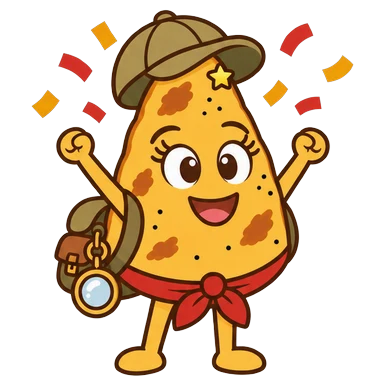
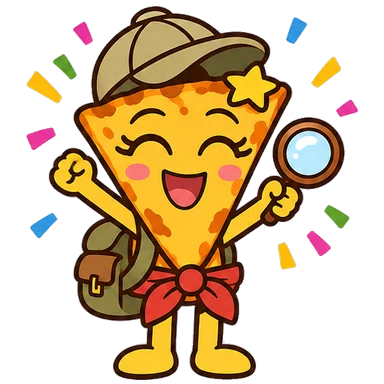
Mascotte au féminin : nouvelle socca à l'envers (petits, lecteurs, explorateurs, lycée gothique et rap, parent)
Claude-Session: https://claude.ai/code/session_01J1vkerBPNDTBzHrhCgH55g

diff --git a/CLAUDE.md b/CLAUDE.md
@@ -14,7 +14,7 @@ Ce dépôt (leian/UNIVERSALQUIZ, nom gardé pour ne pas changer l'adresse GitHub
 - Remise à zéro (Réglages, cases à cocher, propriétaire seulement, confirmation = prénom) : `apiRemettreAZero` — deux cases : résultats (Sheets renommé « (archive du …) » + nouveau tableau, avec la mémoire des appareils : propriété `RAZ` → `__UQ.raz`, `pont.html` efface une fois `uqSuivi.*` (sauf `.off`), `sq.*`, `uq-bib-vu`) et quiz à la corbeille. Le site et son lien restent.
 - Thèmes d'âge : `moteur/commun/themes.css` (petits, lecteurs, explorateurs = style de base, college, lycee, parent). Le serveur pose `<html data-theme>` d'après la classe (`classe_()`, Réglages → `apiClasse`, montée automatique chaque 1er septembre) et ajoute ces styles en fin d'en-tête de chaque page. Les images des thèmes iront sur GitHub Pages (`docs/themes/<thème>/`).
 - Mascotte du lycée : deux tenues au choix du parent (`MASCOTTES_LYCEE` : gothique par défaut, rap), Réglages → liste « Mascotte » sous la classe, affichée seulement au lycée → `apiMascotte` (propriété `MASCOTTE`) ; le serveur pose `<html data-mascotte>` au lycée, images `docs/themes/lycee-<tenue>/` (l'ancienne `docs/themes/lycee/`, lunettes et veste en jean, reste en secours). Mascotte parent : costume bleu marine et cravate (17 nov. 2026).
-- Allure de la mascotte (17 nov. 2026) : au féminin, au masculin ou neutre (la socca de toujours). Par défaut devinée d'après le prénom (`genreDuPrenom_` : listes `PRENOMS_MIXTES_`, `PRENOMS_F_`, `PRENOMS_M_`, puis terminaisons très marquées ; dans le doute : neutre) ; Réglages → « Allure de la mascotte » (Automatique — libellé seul, sans rappel du prénom —, Au féminin, Au masculin, Neutre) → `apiGenre` (propriété `GENRE`, absente = automatique). On ne parle que du dessin, jamais du genre de l'enfant (pas de « fille / garçon ») ; textes du site toujours neutres. Dessins disponibles par allure : `DESSINS_GENRE = { f: [thèmes], m: [thèmes] }` et `SAISONS_GENRE` (Code.gs) ; le réglage est proposé pour les thèmes ayant au moins une allure (`GENRES_DESSINES`), une allure sans dessin pour le thème est grisée « (dessins bientôt prêts) » et retombe sur la socca de toujours (`cfg.genreEffectif = 'n'`) ; le serveur pose `<html data-genre="f|m">` et, si le costume de saison existe dans cette allure, `data-genre-saison`. Images : `docs/themes/<thème>-f/` et `-m/`, `lycee-<tenue>-f/` et `-m/`, `saisons/<saison>-f/` et `-m/` ; règles CSS déjà écrites dans `themes.css`. **Au féminin : tout est en place depuis le 22 nov. 2026** (6 thèmes, 2 tenues du lycée, 8 saisons ; barrette étoile dorée et cils ; au lycée gothique, version sans longs cils). **Au masculin (sourcils plus épais et épi) : tout est en place depuis le 22 nov. 2026** aussi (Noël refait sans les confettis coupés). Nouveau thème ou nouvelle saison : déposer les deux versions, puis les ajouter à `DESSINS_GENRE` / `SAISONS_GENRE`. Le saut de la mascotte a été retiré le 22 nov. 2026 : plus de planche de saut à faire. La socca à habiller (petits) reste la socca de base. Planches rendues par ChatGPT (2×2 : accueil, bravo / encouragement, réflexion ; 2×1 pour une saison ; bande de 6 pour le saut) : `python3 outils/decouper-planche.py <planche.png> docs/themes/<thème>-f` (fond blanc rendu transparent depuis les bords, cases 384×384 posées en bas, WebP).
+- Allure de la mascotte (17 nov. 2026) : au féminin, au masculin ou neutre (la socca de toujours). Par défaut devinée d'après le prénom (`genreDuPrenom_` : listes `PRENOMS_MIXTES_`, `PRENOMS_F_`, `PRENOMS_M_`, puis terminaisons très marquées ; dans le doute : neutre) ; Réglages → « Allure de la mascotte » (Automatique — libellé seul, sans rappel du prénom —, Au féminin, Au masculin, Neutre) → `apiGenre` (propriété `GENRE`, absente = automatique). On ne parle que du dessin, jamais du genre de l'enfant (pas de « fille / garçon ») ; textes du site toujours neutres. Dessins disponibles par allure : `DESSINS_GENRE = { f: [thèmes], m: [thèmes] }` et `SAISONS_GENRE` (Code.gs) ; le réglage est proposé pour les thèmes ayant au moins une allure (`GENRES_DESSINES`), une allure sans dessin pour le thème est grisée « (dessins bientôt prêts) » et retombe sur la socca de toujours (`cfg.genreEffectif = 'n'`) ; le serveur pose `<html data-genre="f|m">` et, si le costume de saison existe dans cette allure, `data-genre-saison`. Images : `docs/themes/<thème>-f/` et `-m/`, `lycee-<tenue>-f/` et `-m/`, `saisons/<saison>-f/` et `-m/` ; règles CSS déjà écrites dans `themes.css`. **Au féminin : tout est en place depuis le 22 nov. 2026** (6 thèmes, 2 tenues du lycée, 8 saisons ; barrette étoile dorée et cils ; au lycée gothique, version sans longs cils). **Au masculin (sourcils plus épais et épi) : tout est en place depuis le 22 nov. 2026** aussi (Noël refait sans les confettis coupés). Nouveau thème ou nouvelle saison : déposer les deux versions, puis les ajouter à `DESSINS_GENRE` / `SAISONS_GENRE`. Le saut de la mascotte a été retiré le 22 nov. 2026 : plus de planche de saut à faire. La socca à habiller (petits) reste la socca de base. Nouvelle tête au féminin (socca à l'envers, `outils/mascotte-f-chatgpt.md`) : petits, lecteurs, explorateurs, lycée gothique et rap, parent en ligne le 27 nov. 2026 ; collège et saisons à refaire. Planches rendues par ChatGPT (2×2 : accueil, bravo / encouragement, réflexion ; 2×1 pour une saison ; bande de 6 pour le saut) : `python3 outils/decouper-planche.py <planche.png> docs/themes/<thème>-f` (fond blanc rendu transparent depuis les bords, cases 384×384 posées en bas, WebP).
 - Saisons : `saisonDe_()` (Noël en décembre, hiver, Pâques calculé, printemps, été, rentrée 1-20 sept., Halloween 15 oct.-2 nov., automne) pose `<html data-saison>` ; couleurs `--s1/--s2/--s3`, frise, petite animation (petits, lecteurs, explorateurs) et confettis dans `themes.css` / `recompenses.js`. Réglages → `apiSaison` (propriété `SAISON_OFF`), aperçu par `…/exec?saison=noel`. Frises (en haut des pages) et mascottes costumées (accueil, bravo ; petits et primaire seulement) : `docs/themes/saisons/<saison>/`.
 - Révisions : le moteur envoie pour chaque question une clé stable `k` et, si elle est ratée, la question entière `o` (colonne `questions` du Sheets). `revisions_()` applique la répétition espacée (1, 3, 7, 21 jours) et le défi du mois (ratées le mois précédent) ; pages virtuelles `revisions` et `defi` fabriquées par `pageRevision_()`, section « Pour toi » sur l'accueil de l'enfant.
 - Maîtrise et récompenses : `maitrise_()` (serveur, cache 600 s) calcule le niveau de chaque notion (catégorie) et la série de chaque question ; posé dans `__UQ.maitrise` (tirage intelligent, passage à l'écrit, notions, album). Récompenses par profil (`PROFILS` du moteur) : animaux rares (le saut de la mascotte en bas à droite, `saut.webp`, a été retiré le 22 nov. 2026 à la demande de Yan, doublon de la mascotte compagne), album d'autocollants (`docs/themes/recompenses/autocollants.webp`, 6×4) au primaire, socca à habiller chez les petits (depuis la v3.7 : nouveaux accessoires de Yan — chef, couronne, casquette, écharpe, lunettes, nœud, cape, bonnet, bandeau étoile, pirate, chapeau de fête, étoile — planches `accessoires2.webp` (boutons, sans déformation), `accessoires2-avant.webp` et `accessoires2-dos.webp` (cases étirées, la page leur redonne largeur et hauteur ; seule la cape a un dos), fabriquées par `outils/accessoires2-decouper.py` puis `outils/accessoires2-planches.py` ; `ACCESSOIRES` = [nom, x, y, largeur, hauteur] relevés sur l'aperçu fourni ; anciennes planches gardées pour les sites pas à jour. Avant : `accessoires.webp`, 12 accessoires (tête et visage seulement : écharpe et cape remplacées par oreilles de lapin et moustache) posés sur la mascotte de base, un par notion acquise, `ACCESSOIRES` dans `moteur/index.html` ; depuis la v2.84, deux calques par accessoire : `accessoires-dos.webp` derrière la socca (intérieur des chapeaux, serre-tête, arrière de la couronne de fleurs, ruban de la médaille) et `accessoires-avant.webp` devant, fabriqués par `python3 outils/accessoires-calques.py docs/themes/recompenses/accessoires.webp <dossier>` ; socca réduite dans `.in` pour laisser la place des chapeaux au-dessus ; `accessoires.webp` (nettoyé) reste pour les boutons et les anciennes versions), emblèmes `niveau-0..3.webp` au collège et dans l'espace parent, coche au lycée. **Postures du collège** (27 nov. 2026) : 20 postures animées (`POSES` dans `animations.js`, bandes de 6 images 384×384 `docs/themes/poses[-f|-m]/<id>.webp`, fabriquées par `outils/pose-planche.py` depuis une planche ChatGPT 3×2, prompts dans `outils/poses-chatgpt.md`) ; n'existent que celles listées dans `POSES_DESSINEES` (Code.gs → `__UQ.poses`, collège seulement). Gagnées avec les bonnes réponses enregistrées (1re à 10, puis une toutes les 25, duel exclu) ; une posture gagnée jouée à chaque bonne réponse (dans la mascotte compagne en 6e-5e, dans le coin en 4e-3e) ; accueil → « Mes postures » (`Animations.panneauPoses`, scène haute comme 3 autocollants, icône touchée = jouée). Au masculin et au féminin : les 20 en ligne (27 nov. 2026) ; socca de toujours : à dessiner.
